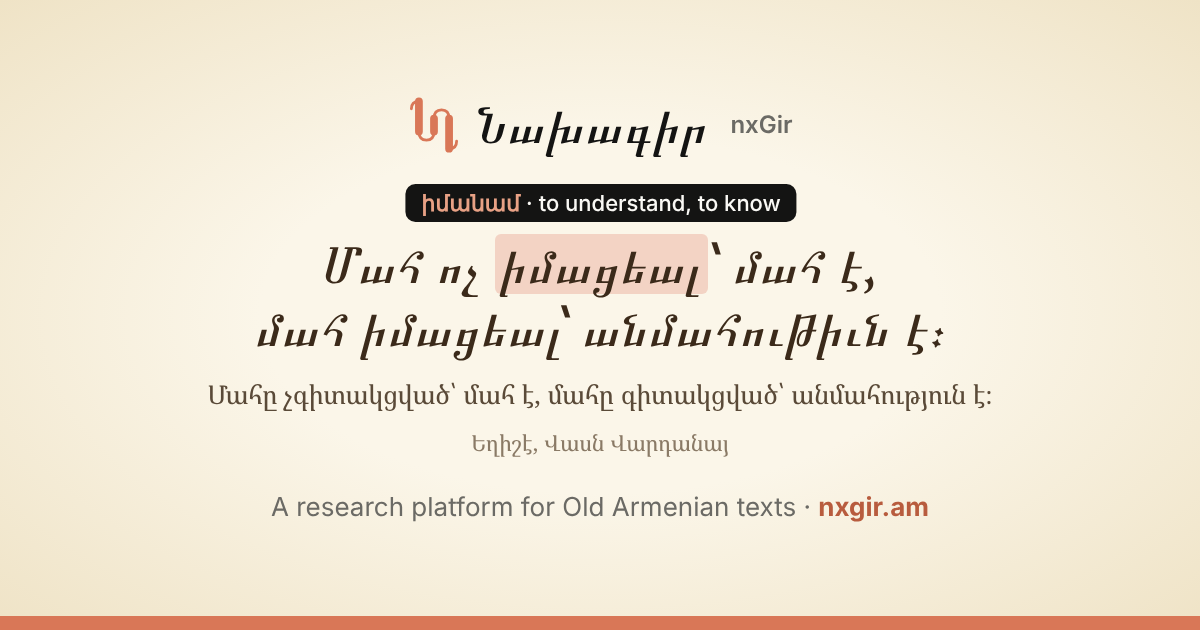
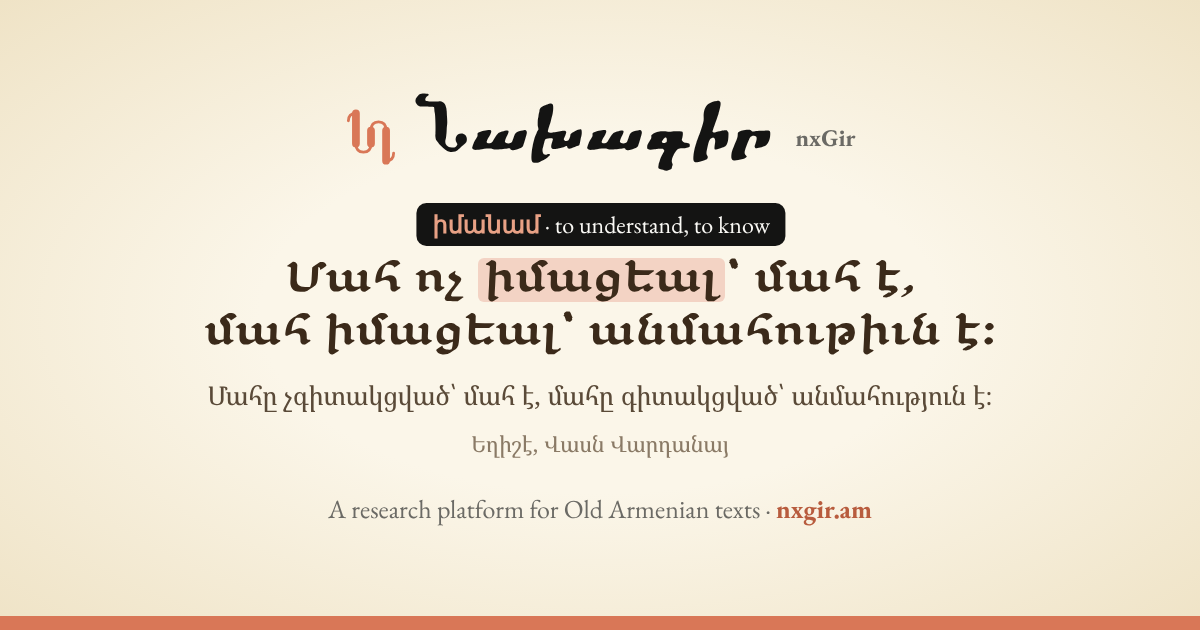
Link preview: our own fonts
Նախագիր in nxGir Dzeragir, the Grabar line in
nxGir Bolorgir, the English in EB Garamond.

Claude-Session: https://claude.ai/code/session_01Kh1C7TA5zgtKBSj2rCFaHD

diff --git a/web/index.html b/web/index.html
@@ -24,7 +24,7 @@
   Armenian translations, word meanings, search
   across the library, author cards and a map.">
 <meta property="og:image"
-  content="https://nxgir.am/og-image.png?v=5">
+  content="https://nxgir.am/og-image.png?v=6">
 <meta property="og:url" content="https://nxgir.am">
 <meta property="og:type" content="website">
 <link rel="icon" href="icon.svg?v=2">

diff --git a/scripts/render-og.py b/scripts/render-og.py
@@ -50,7 +50,7 @@ body {{
     radial-gradient(ellipse at center,
       #fbf6e9 40%, #efe3c6 100%);
   color: #141413;
-  font-family: system-ui, sans-serif;
+  font-family: "nx EB Garamond", serif;
   border-bottom: 14px solid #d97757;
 }}
 .top {{
@@ -67,7 +67,7 @@ svg {{
   stroke-linejoin: round;
 }}
 .name {{
-  font: 400 50px "nx Arian Grqi", serif;
+  font: 400 48px "nx Dzeragir", serif;
 }}
 .en {{
   font-size: 24px;
@@ -76,8 +76,8 @@ svg {{
   margin-left: 6px;
 }}
 .grabar {{
-  margin-top: 78px;
-  font: 400 50px "nx Arian Grqi", serif;
+  margin-top: 70px;
+  font: 400 42px "nx Bolorgir", serif;
   line-height: 1.25;
   color: #3b2a1a;
 }}
@@ -98,7 +98,7 @@ mark {{
   border-radius: 10px;
   background: #141413;
   color: #faf9f5;
-  font: 500 22px system-ui, sans-serif;
+  font: 400 24px "nx EB Garamond", serif;
 }}
 .word b {{ color: #e8a185; font-weight: 600; }}
 .modern {{
